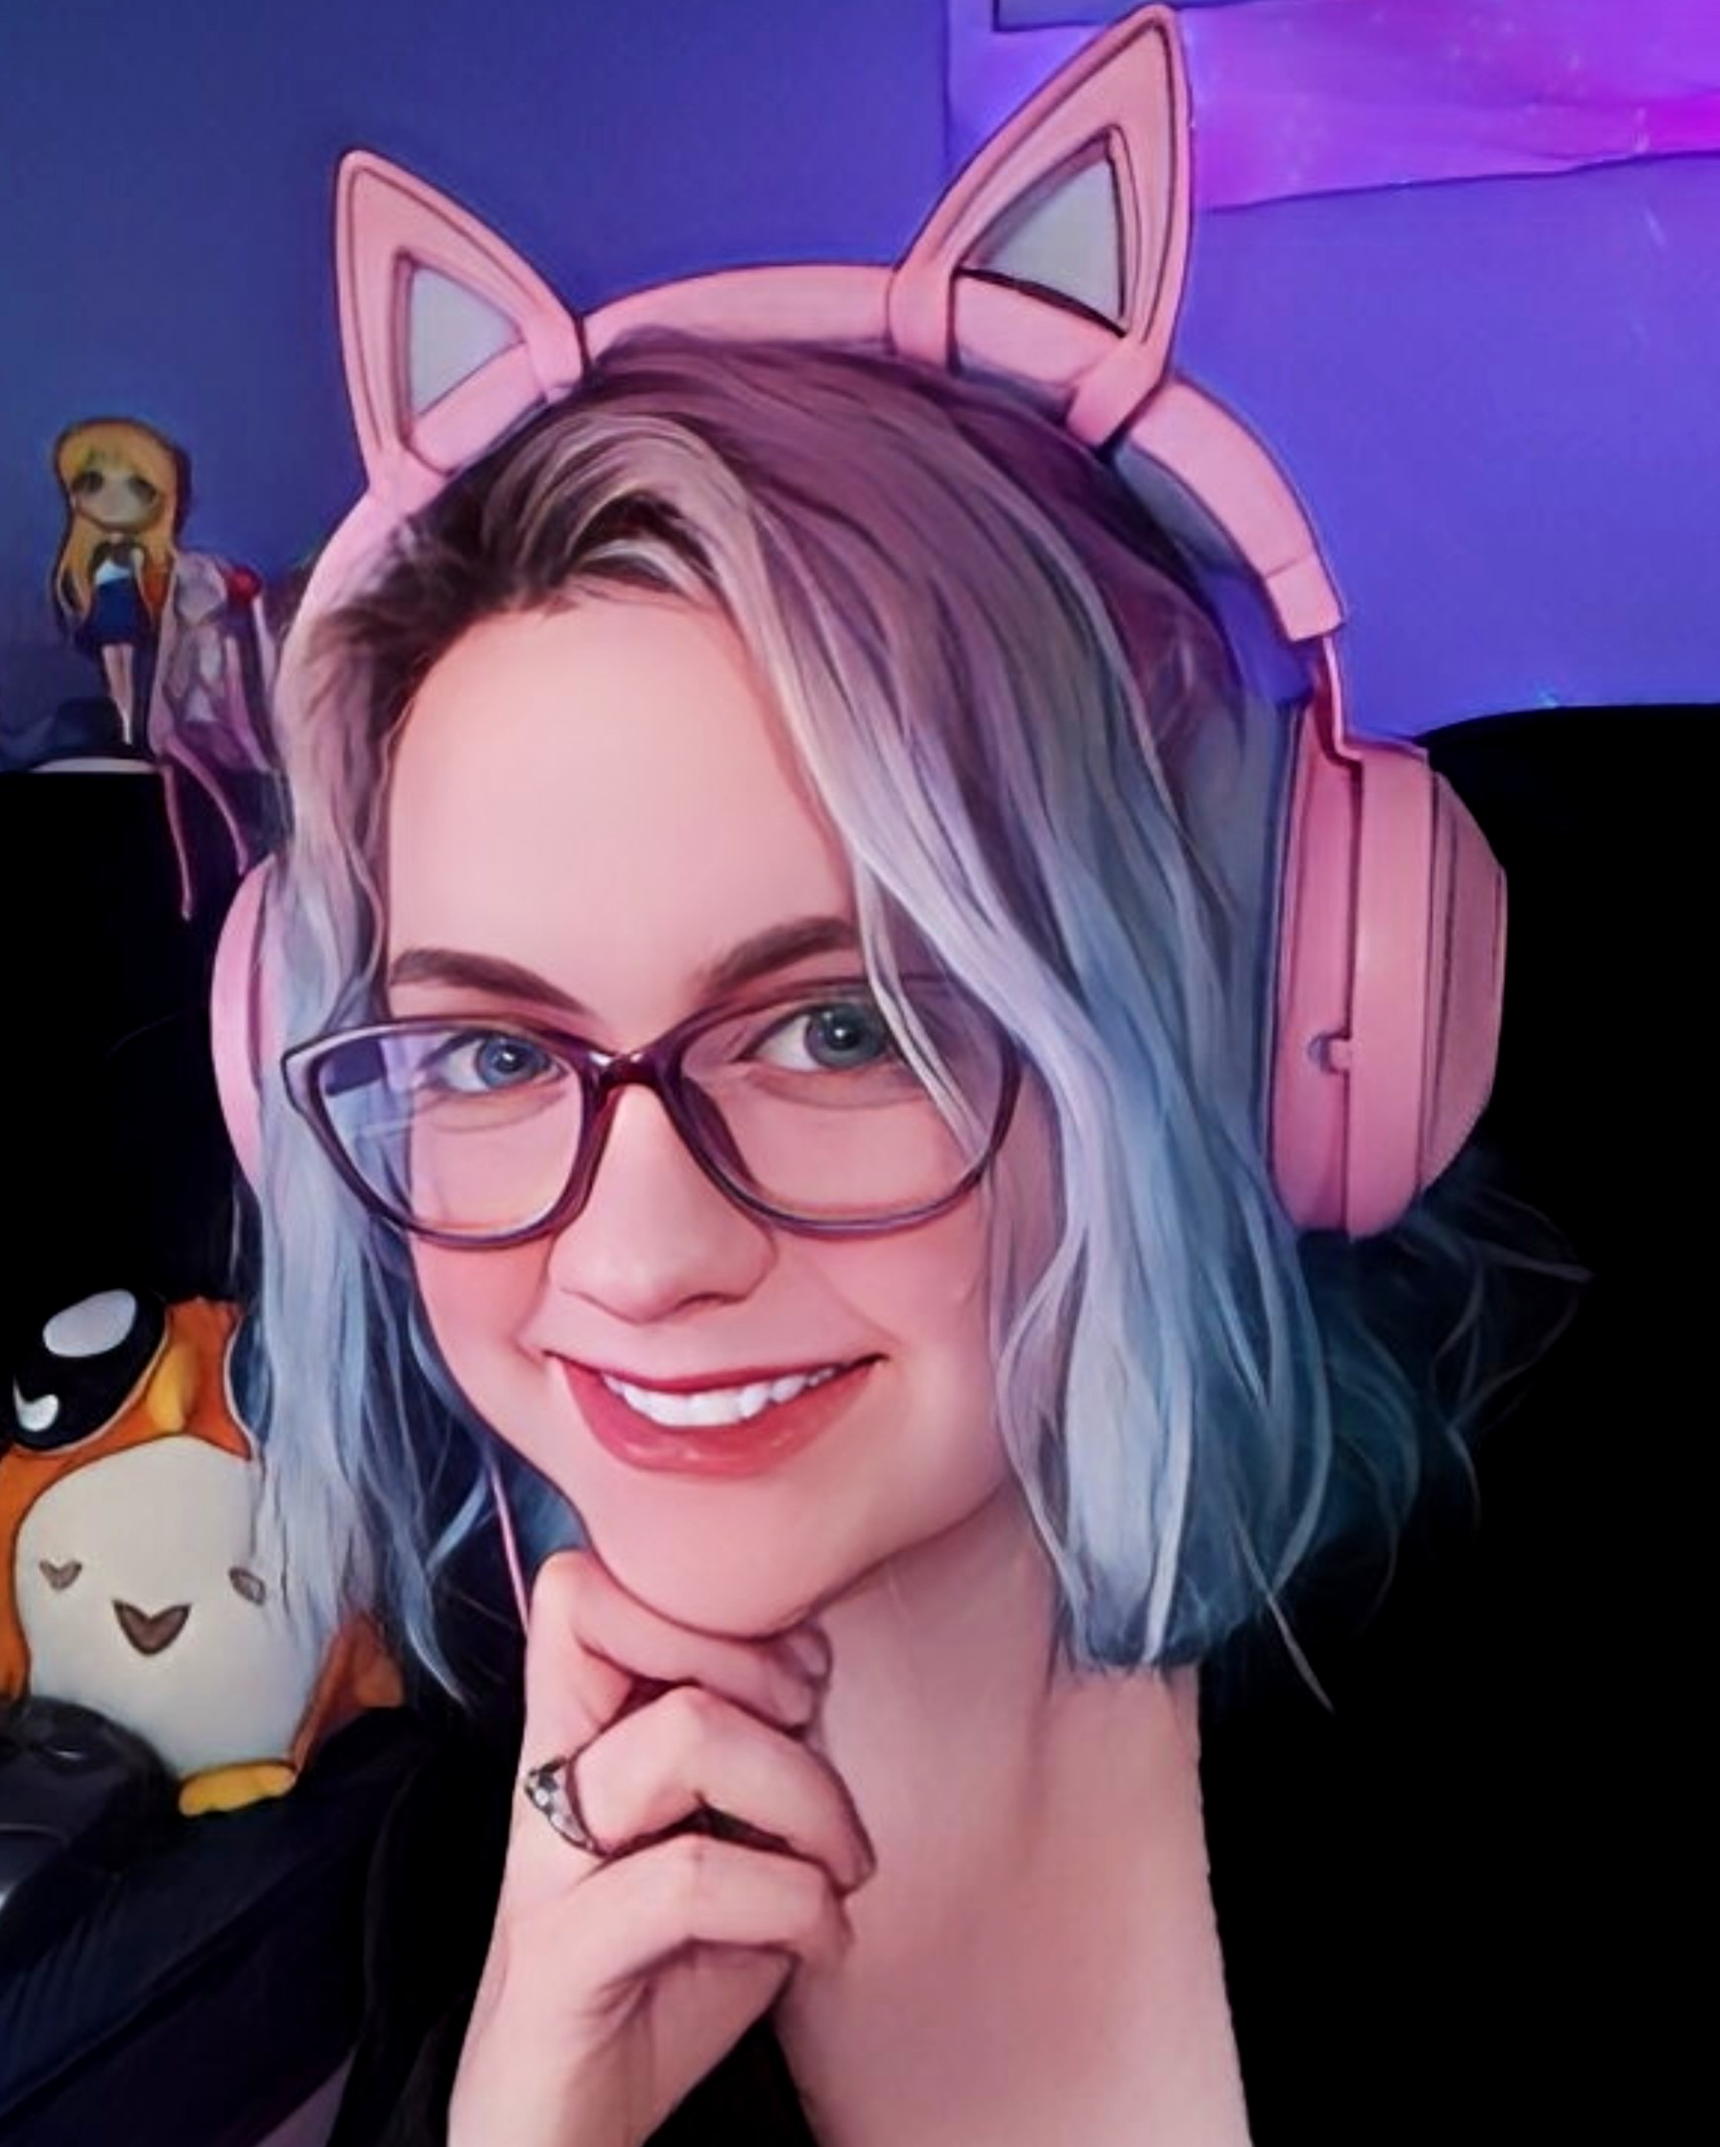
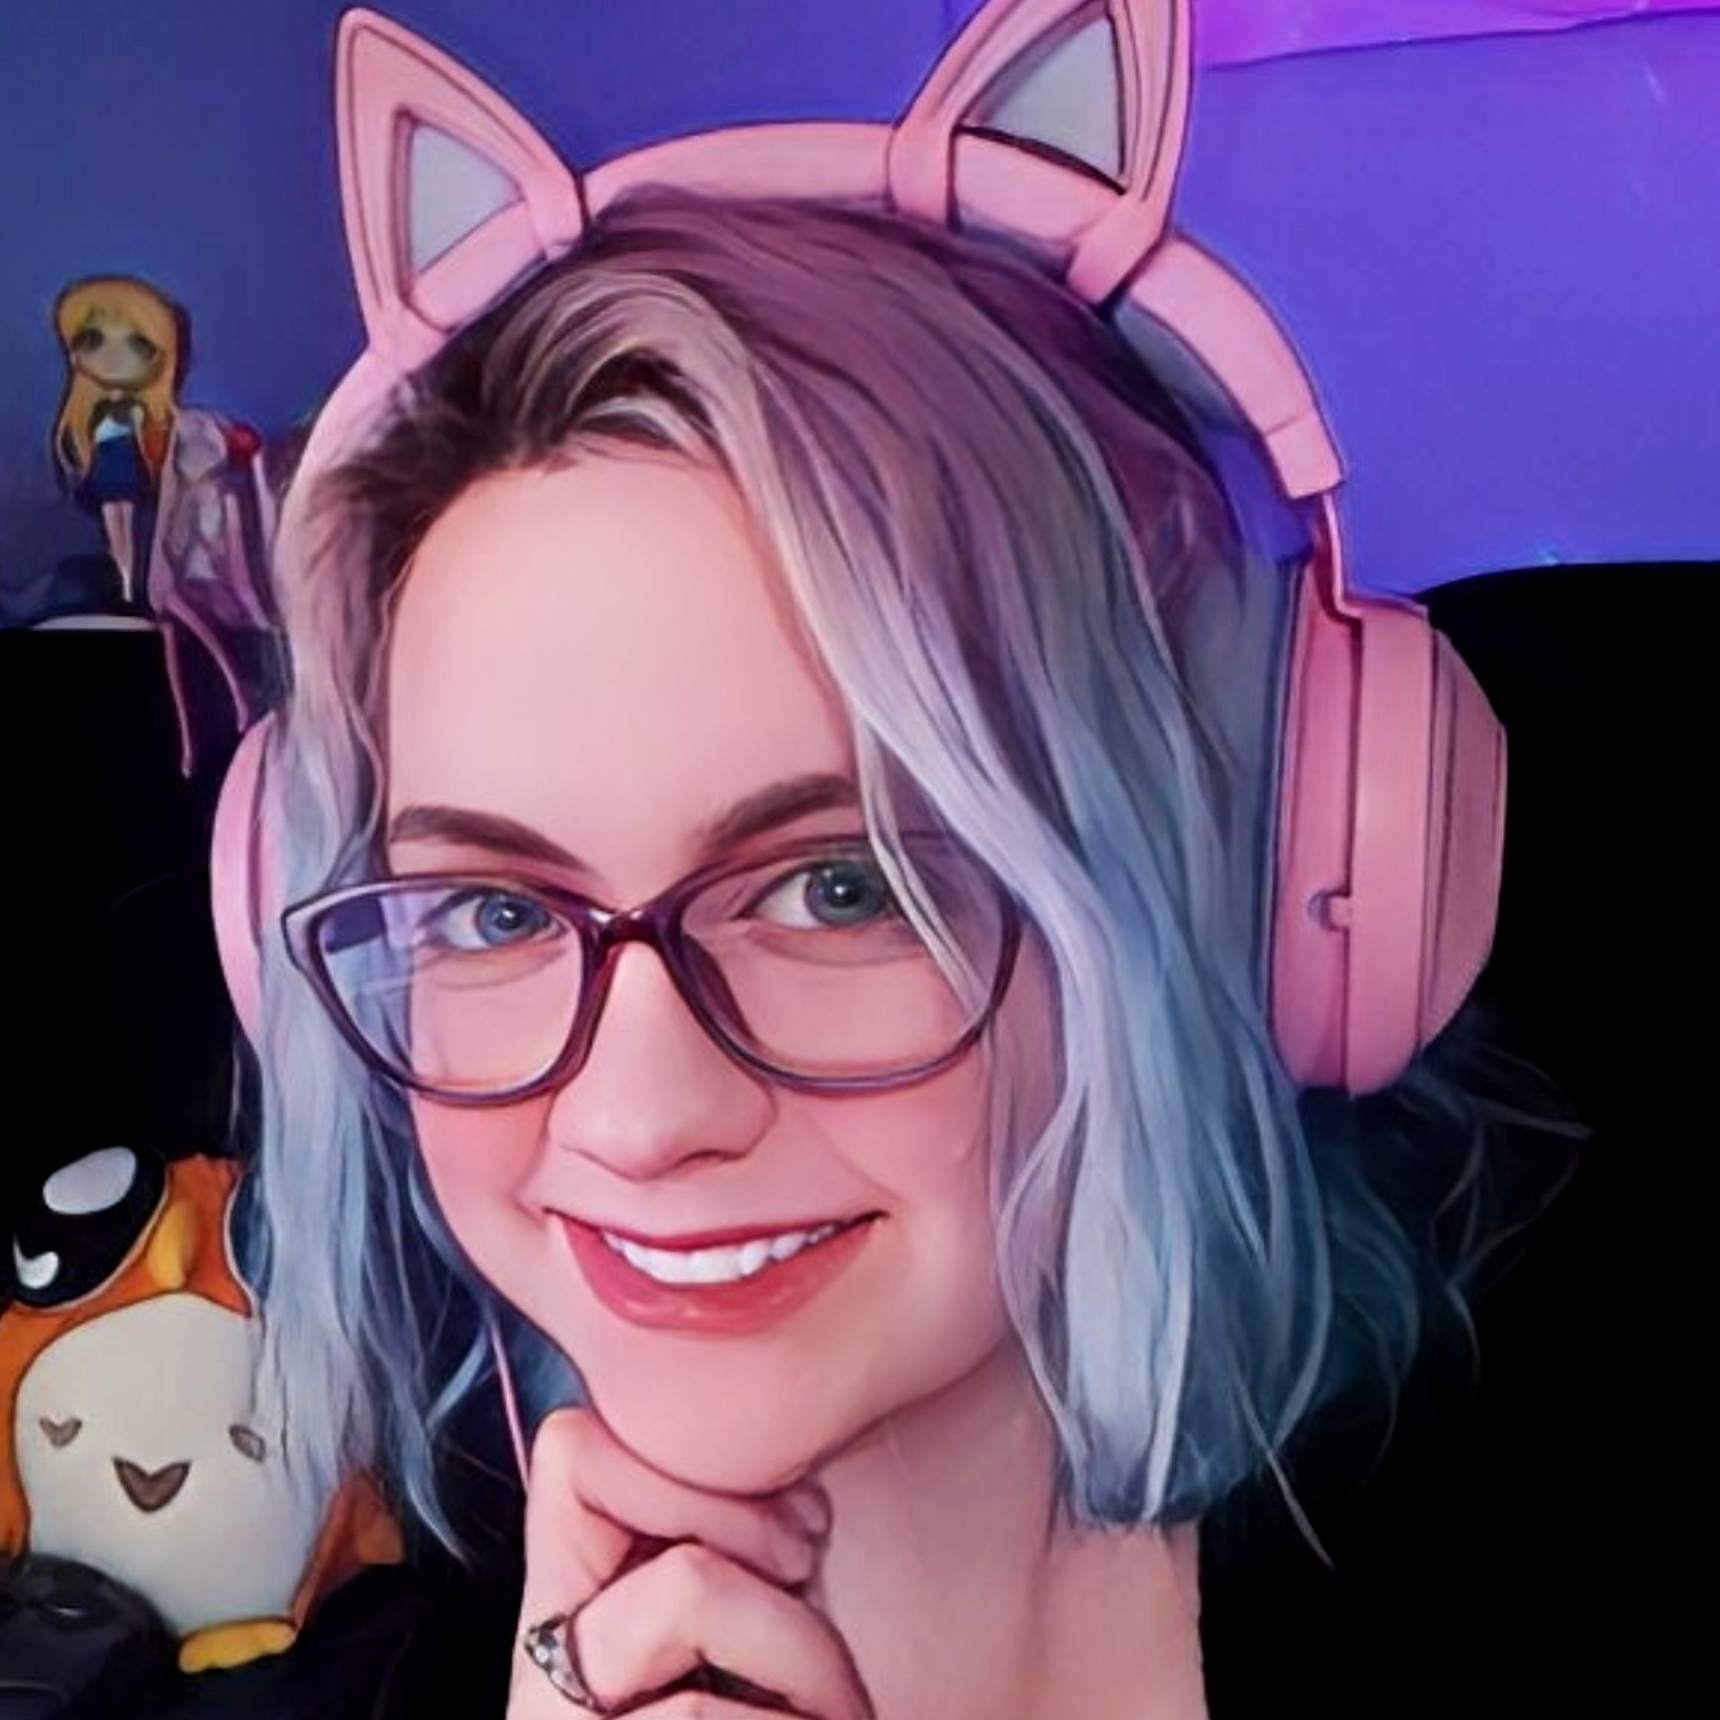
Design Testing/Additions 3
Members:
- Images updated in Photoshop to be equal squares

Design:
- Links now have different CSS on hover
- Headers that are hyperlinked have their own specific CSS
- Sticky footer reinstated
- Blue hues incorporated, including clickable block links

diff --git a/_sass/_layout.scss b/_sass/_layout.scss
@@ -2,6 +2,7 @@ html {
   box-sizing: border-box;
   margin:0; 
   padding:0;
+  height: 100%;
 }
 *, *:before, *:after {
   box-sizing: inherit;
@@ -9,6 +10,9 @@ html {
 body {
   background-color: #edf2f7;
   color: #495057;
+  height: 100%;
+  display: flex;
+  flex-direction: column;
   background:
       linear-gradient(-90deg, rgba(0,0,0,.05) 1px, transparent 1px),
       linear-gradient(rgba(0,0,0,.05) 1px, transparent 1px), 
@@ -20,14 +24,14 @@ body {
       linear-gradient(#aaa 1px, transparent 1px),
       #f2f2f2;
   background-size:
-    4px 4px,
-    4px 4px,
-    80px 80px,
-    80px 80px,
-    80px 80px,
-    80px 80px,
-    80px 80px,
-    80px 80px;
+      4px 4px,
+      4px 4px,
+      80px 80px,
+      80px 80px,
+      80px 80px,
+      80px 80px,
+      80px 80px,
+      80px 80px;
   background-attachment: fixed;
 }
 
@@ -124,6 +128,10 @@ header, main {
 	text-decoration: none;
 }
 
+.card a:hover {
+  box-shadow: none;
+}
+
 .card p { 
   font-size: 0.9rem;
 }
@@ -176,6 +184,22 @@ header, main {
   padding: 0;
 }
 
+.social-icon {
+  height: 40px;
+  width: auto;
+  display: inline-block;
+  margin: 0;
+  padding: 5px 10px 0;
+  vertical-align: middle;
+  filter: grayscale(100%) contrast(200%);
+}
+
+.social-icon:hover {
+  // box-shadow: inset 0 -300px 0 0 #0397D5;
+  // color: white;
+  filter: grayscale(0%);
+}
+
 ul, ol {
 	padding-left: 1.5rem;
   list-style: square outside;
@@ -219,6 +243,12 @@ nav {
 	    font-weight: 500;
 	    letter-spacing: .05em;
 	    //opacity: 0.6;
+      box-shadow: inset 0 0 0 0 #0397D5;
+      transition: all 0.5s ease-in-out 0s;
+    }
+    a:hover {
+      box-shadow: inset 0 -300px 0 0 #0397D5;
+      color: white !important;
     }
 }
 
@@ -230,16 +260,6 @@ footer {
 
 .content {
   flex: 1 0 auto;
-}
-
-.social-icon {
-  height: 40px;
-  width: auto;
-  display: inline-block;
-  margin: 0;
-  padding: 5px 10px 0;
-  vertical-align: middle;
-  filter: grayscale(100%) contrast(200%);
 }
 
 .role-icon {
@@ -265,10 +285,11 @@ footer {
 }
 
 .bio-image {
-  height: 200px;
+  height: 250px;
   width: auto;
-  box-shadow: 10px 10px black,
+  box-shadow: 10px 10px black;
               // -2px -2px #0397D5;
+  float: right;
 }
 
 .card-text {
@@ -338,6 +359,31 @@ hr {
 /* To visually hide elements but keep the semantics for screen readers */
 .semantic {
   display: none;
+}
+
+/* --- LINK CSS (majority) --- */
+.general a {
+  padding: 0 1px 0;
+  box-shadow: inset 0 0 0 0 #0397D5;
+  transition: all 0.5s ease-in-out 0s;
+}
+
+.general a:hover {
+  box-shadow: inset 0 -300px 0 0 #0397D5;
+  color: white;
+  text-decoration: none;
+}
+
+a.general {
+  padding: 0 1px 0;
+  box-shadow: inset 0 0 0 0 #0397D5;
+  transition: all 0.5s ease-in-out 0s;
+}
+
+a.general:hover {
+  box-shadow: inset 0 -300px 0 0 #0397D5;
+  color: white;
+  text-decoration: none;
 }
 
 @media only screen and (max-width: 600px) {

diff --git a/_layouts/post.html b/_layouts/post.html
@@ -13,7 +13,7 @@ layout: default
           <h3 class="profile-info secondary-font"><span style="opacity:.5">{{ page.pronouns }} | {{ page.location }}</span></h3>
         </section>
         <!-- ROW -->
-        <section class="col text-center" aria-label="team member profile image">
+        <section class="col" aria-label="team member profile image">
           <img class="bio-image"
                src="assets/images/bio/{{ page.image }}"
                alt="{{ page.alt }}">
@@ -23,7 +23,7 @@ layout: default
 
     <br><br>
 
-    <h4 class="main-font profile-section-title">Summary</h4>
+    <h4 class="main-font profile-section-title">About</h4>
     <hr>
     <section class="container base-text">
       {{ page.summary }}
@@ -41,7 +41,7 @@ layout: default
 
     <h4 class="main-font profile-section-title">Portfolio</h4>
     <hr class="subtitle">
-    <section class="container secondary-font">
+    <section class="container secondary-font general">
       {% if page.portfolio == 'under construction' %}
         <h6><em>Under Construction</em></h6>
       {% elsif page.portfolio == 'n/a' %}
@@ -55,7 +55,7 @@ layout: default
 
     <h4 class="main-font profile-section-title">Contact</h4>
     <hr>
-    <section class="container secondary-font">
+    <section class="container secondary-font general">
       <ul class="bio">
         {% for contact in page.contact %}
           {% if contact.type == 'Email' %}
@@ -78,7 +78,7 @@ layout: default
         {% assign icon = site.social_media_icons[platform] %}
   
         {% if icon %}
-          <a href="{{ url }}" aria-label="link to {{ platform }}"><img src="{{ icon }}" alt="{{ platform }}" class="social-icon"></a>
+          <a href="{{ url }}" aria-label="link to {{ platform }}"><img src="{{ icon }}" alt="{{ platform }}" class="social-icon no-hover"></a>
         {% endif %}
       {% endfor %}  
     </section>

diff --git a/_layouts/project.html b/_layouts/project.html
@@ -4,7 +4,7 @@ layout: default
 
 <article class="post" role="article">
 	<div class="meta text-center">
-    <img src="{{ page.logo }}" class="game-logo" alt="{{ page.title }} logo">
+    <img src="{{ page.logo }}" class="game-logo img-tint" alt="{{ page.title }} logo">
   </div>
   <br>
   <div class="meta">
@@ -12,7 +12,7 @@ layout: default
     <hr>
     <section class="container base-text">
       <a href="{{ page.link }}">
-        <h5>Play <em>{{ page.title }}</em> on Itch.io</h5>
+        <h5 class="demo-link">Play <em>{{ page.title }}</em> on Itch.io</h5>
       </a>
       <em>Platforms currently available: {{ page.platforms }}</em>
     </section>
@@ -22,7 +22,7 @@ layout: default
     <!-- OVERVIEW -->
     <h4 class="main-font profile-section-title">Overview</h4>
     <hr>
-    <section class="container base-text">
+    <section class="container base-text general">
       <time class="date" datetime="{{ page.date | date_to_xmlschema }}">{{ page.date | date: "%Y" }} &middot; {{ page.category }}</time>
       <br><br>
       {{ content }}
@@ -49,15 +49,15 @@ layout: default
     <div class="container base-text">
       <div class="row">
         <section class="col">
-          <h5 class="profile-subsection-title">Tools</h5>
+          <h5 class="profile-subsection-title"><em>Tools</em></h5>
           <ul>
             {% for tool in page.tools %}
               <li>{{ tool }}</li>
             {% endfor %}
           </ul>
         </section>
-        <section class="col">
-          <h5 class="profile-subsection-title">Contributors</h5>
+        <section class="col general">
+          <h5 class="profile-subsection-title"><em>Contributors</em></h5>
           <ul>
             {% assign sorted = page.team | sort: 'member' %}
             {% for team in sorted %}

diff --git a/_includes/navigation.html b/_includes/navigation.html
@@ -1,10 +1,10 @@
 <nav role="navigation" style="padding-top:10px">
   <ul class="secondary-font">
     <li><a href="/" {% if page.url == "/" %}class="active"{% endif %}>Home</a></li>
-    <!-- Make this a link on projects page? -->
-    <!-- <li><a href="/tags" {% if page.url == "/tags" %}class="active"{% endif %}>Tags</a></li> -->
     <li><a href="/projects" {% if page.url == "/projects" %}class="active"{% endif %}>Projects</a></li>
     <li><a href="/about" {% if page.url == "/about" %}class="active"{% endif %}>About</a></li>
     <li><a href="/members" {% if page.url == "/projects" %}class="active"{% endif %}>Members</a></li>
+    <!-- Make this a link on projects page? -->
+    <!-- <li><a href="/tags" {% if page.url == "/tags" %}class="active"{% endif %}>Tags</a></li> -->
   </ul>
 </nav>

diff --git a/_includes/footer.html b/_includes/footer.html
@@ -3,6 +3,6 @@
         <a href="https://github.com/Distance-Over-Time"><img class="footer-icon" src="{{ site.social_media_icons['GitHub'] }}"></a>
         <a href="https://bsky.app/profile/distanceovertime.bsky.social"><img class="footer-icon" src="{{ site.social_media_icons['Bluesky'] }}"></a>
         <span>|</span>
-        <a href="https://github.com/Distance-Over-Time/distance-over-time.github.io">Repo & Credits</a>
+        <a class="general" href="https://github.com/Distance-Over-Time/distance-over-time.github.io">Repo & Credits</a>
     </small>
 </footer>

diff --git a/_sass/_fonts.scss b/_sass/_fonts.scss
@@ -46,6 +46,7 @@ h5, h6 {
   font-weight: 300;
   font-size: 1.5rem;
   text-transform: uppercase;
+  color: black;
 }
 
 .secondary-font {
@@ -58,4 +59,15 @@ h5, h6 {
   font-family: 'Montserrat';
   font-weight: 400;
 }
+
+.demo-link {
+  transition: all 0.5s ease-in-out 0s;
+}
+
+.demo-link:hover {
+  color: #0397D5;
+  text-decoration: underline;
+  text-decoration-color:#0397D5;
+}
+
 

diff --git a/_posts/2024-01-01-sophie-galley.md b/_posts/2024-01-01-sophie-galley.md
@@ -1,0 +1,32 @@
+---
+layout: post
+name: Sophie Galley
+pronouns: she/her
+location: San Francisco Bay Area
+image: sophie_galley.jpg
+alt: CHANGE THIS ALT TEXT
+roles: Producer, Writer
+role_icons: [Producer, Writer]
+summary: My name is Sophie, and I'm a Scottish-born, California-raised game producer based in the San Francisco Bay Area. With the games that I create, I hope to spark excitement and curiosity in players by exploring relationships between interesting characters, crafting engaging storytelling, sprinkling in life lessons about self-care, and adding a pinch of the unexpected within the familiarity. You will find me handling the production and narrative in most of my projects where I will likely be organizing information, continuously learning by asking questions, and supporting my fellow game developers in any way I can!
+projects: [Guiding Light]
+portfolio: https://sophiegalley11.wixsite.com/soph-a-loaf/gd-portfolio-page
+contact:
+  - type: Email
+    direct: sophie.galley11@gmail.com
+socials:
+  - platform: LinkedIn
+    url: https://www.linkedin.com/in/sophie-galley/
+  - platform: Twitter
+    url: https://twitter.com/soph_a_loaf_
+  - platform: Bluesky
+    url: https://bsky.app/profile/sophaloaf.bsky.social
+  - platform: Itch.io
+    url: https://soph-a-loaf8.itch.io/
+---
+
+##### _Guiding Light (2023)_
+- Managed and organized accessible schedule and kanban board with Taylor McElroy and Ashley Phipps to maintain and fulfill milestones and visualize production status
+- Spearheaded and ran 1:1 playtests with the aid of Ross Minor, Ashley Phipps, and Taylor McElroy
+- Created Google Forms and Google sheets to track potential playtester information for current and future playtests
+- Crafted character sheets and script format to keep narrative team coordinated during writing process
+- Brainstormed story with narrative team and drafted introduction and level 1 dialogue, level 1 descriptor text for NVDA screen readers, and level 1 in-game text

diff --git a/_pages/about.md b/_pages/about.md
@@ -3,20 +3,6 @@ layout: page
 title: About
 ---
 
-## Colorie - Single column blog and portfolio Jekyll theme 
+## We are Distance Over Time Studios 
 
-Colorful, minimal one-column portfolio/blog theme built for Jekyll. Perfect for your personal website, blog and portfolio.
-
-### Key features
-
-- seo optimized
-- portfolio/blog/tag pages
-- AAA, 100/100 scores on Lighthouse, Gmetrix and Webpagetest
-- responsive
-- inline css
-- compressed css, html
-- sitemap
-- robots.txt
-- atom feed
-- json feed
-- http security headers
+sophie's text here

diff --git a/_projects/2023-12-31-inn-lost.md b/_projects/2023-12-31-inn-lost.md
@@ -31,6 +31,9 @@ team:
   - member: Ashley Phipps
     url: /ashley-phipps
     roles: Lead Producer
+  - member: Oksana Starshova
+    url: /oksana-starshova
+    roles: QA Lead, Games User Researcher
 ---
 
 *You are the innkeeper of a mountain lodge where magical creatures of all kinds congregate when they need to find...something. You'll meet and make warm drinks for a variety of patrons while trying to unravel the mystery of the unending snow storm that has trapped everyone inside.*

diff --git a/_projects/2023-10-31-guiding-light.md b/_projects/2023-10-31-guiding-light.md
@@ -25,8 +25,11 @@ team:
     url: /ashley-phipps
     roles: Producer
   - member: Taylor McElroy
-    url: /tayloor-mcelroy
+    url: /taylor-mcelroy
     roles: Lead Producer
+  - member: Sophie Galley
+    url: /sophie-galley
+    roles: Producer, Writer
 ---
 
 *"I suppose it was foolish of me to think you would be just like all the other souls that showed up here."*

diff --git a/_posts/2024-01-01-anzal.md b/_posts/2024-01-01-anzal.md
@@ -8,7 +8,7 @@ alt: CHANGE THIS ALT TEXT
 roles: Game Designer
 role_icons: [Designer]
 summary: Anzal is a game designer and developer making serious games and games for social impact.
-projects: [Guiding Light]
+projects: [Inn for the Lost]
 portfolio: https://anzal.carrd.co/
 contact:
   - type: Email

diff --git a/_posts/2024-01-01-ryan-davis.md b/_posts/2024-01-01-ryan-davis.md
@@ -29,7 +29,7 @@ socials:
 - 2D sprite work
 - 3D backgrounds
 
----
+<hr class="secondary">
 
 ##### _Guiding Light (2023)_
 - Dialogue system development
